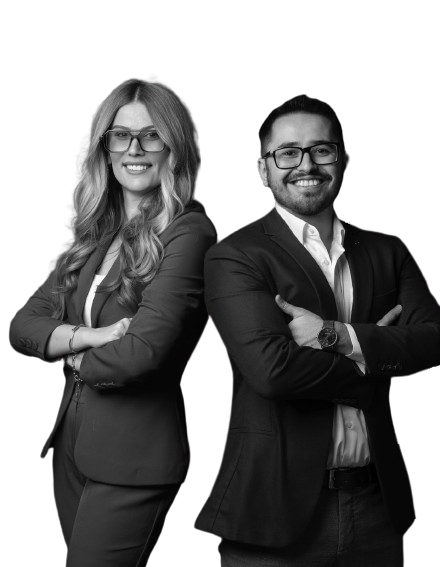
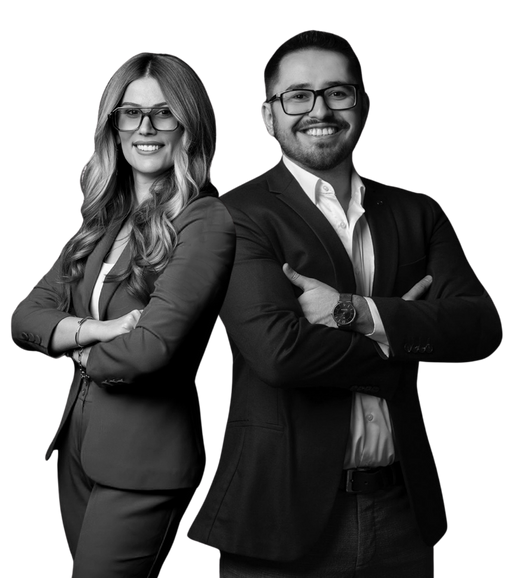
22

diff --git a/templates/home.html b/templates/home.html
@@ -610,7 +610,7 @@ textarea.input {
 
 
 						<!-- HERO TEXT -->
-						<div class="col-md-5">
+						<div class="col-md-4">
 							<div class="hero-3-txt color--white wow fadeInRight">
 
 								<!-- Title -->
@@ -663,9 +663,9 @@ textarea.input {
 
 
 						<!-- HERO IMAGE -->
-						<div class="col-md-7" style="margin-bottom:22px">	
+						<div class="col-md-8" style="margin-bottom:22px">	
 							<div class="hero-1-img wow fadeInLeft">	
-								<img style="height: 600px;padding-top:60px;" class="img-fluid qaqas sabinafoto" src="{% static 'askGroup.png' %}" alt="hero-image">					
+								<img style="height: 600px;padding-top:100px;" class="img-fluid qaqas sabinafoto" src="{% static 'groupImage.png' %}" alt="hero-image">					
 							</div>
 						</div>	
 						
@@ -742,7 +742,7 @@ textarea.input {
 
 
 						<!-- HERO TEXT -->
-						<div class="col-md-6">
+						<div class="col-md-5">
 							<div class="hero-3-txt color--white wow fadeInRight">
 
 								<!-- Title -->
@@ -796,7 +796,7 @@ textarea.input {
 
 
 						<!-- HERO IMAGE -->
-						<div class="col-md-6" style="margin-bottom:22px">	
+						<div class="col-md-7" style="margin-bottom:22px">	
 							<div class="hero-1-img wow fadeInLeft">	
 								<img style="height: 600px" class="img-fluid qaqas sabinafoto" src="{% static 'images/persons/s.png' %}" alt="hero-image">					
 							</div>
@@ -809,7 +809,7 @@ textarea.input {
 
 
 						<!-- HERO TEXT -->
-						<div class="col-md-6">
+						<div class="col-md-4">
 							<div class="hero-3-txt color--white wow fadeInRight">
 
 								<!-- Title -->
@@ -864,9 +864,9 @@ textarea.input {
 
 
 						<!-- HERO IMAGE -->
-						<div class="col-md-6" style="margin-bottom:22px">	
+						<div class="col-md-8" style="margin-bottom:22px">	
 							<div class="hero-1-img wow fadeInLeft">	
-								<img style="height: 600px" class="img-fluid qaqas sabinafoto" src="{% static 'images/persons/t.png' %}" alt="hero-image">					
+								<img style="height: 600px;padding-top:100px;" class="img-fluid qaqas sabinafoto" src="{% static 'groupImage.png' %}" alt="hero-image">					
 							</div>
 						</div>	
 						
@@ -922,7 +922,7 @@ textarea.input {
 									
 									<p >{% trans 'Transformasiya üçün həllər təklif edən bir şirkət olaraq ASK GROUP daim yenilənmək və dəyişməyin tərəfdarıdır.' %}</p>
 									<li class="list-item">
-										<p><b>{% trans 'Dəyərlərimiz' %}</b>- {%trans '- Daim öyrənmək, Daim çevik olmaq, Daim yenilənmək,Daim böyümək, Daim etibarlı tərəfdaş olmaq' %}
+										<p><b>{% trans 'Dəyərlərimiz' %}</b>- {%trans '- Daim öyrənmək, Daim çevik olmaq, Daim yenilənmək, Daim böyümək, Daim etibarlı tərəfdaş olmaq' %}
 										</p>
 										
 									</li>
@@ -1067,7 +1067,7 @@ textarea.input {
 																																					
 									<!-- Team Member Data -->		
 									<div class="team-member-data">		
-										<h6 {% if member.description %} onclick="clickTeam('{{member.full_name}}','{{member.description|escapejs}}','{{member.image.url}}')" {% endif %} class="s-20 w-700 color--black" style="cursor:pointer;">{{ member.full_name }}</h6>
+										<h6 {% if member.description %} onclick="clickTeam('{{member.full_name}}','{{member.description|escapejs}}','{{member.image.url}}')" style="cursor:pointer;" {% endif %} class="s-20 w-700 color--black" >{{ member.full_name }}</h6>
 										<p class="color--grey">{{ member.field }}</p>
 									</div>	
 								
@@ -1159,7 +1159,7 @@ textarea.input {
 							<div class="section-title mb-70">	
 
 								<!-- Title -->	
-								<h2 class="s-50 w-700">{% trans 'Əməkdaşların gözündə ASK GROUP komandası' %}</h2>	
+								<h2 class="s-50 w-700">{% trans 'Tövsiyyələr' %}</h2>	
 
 									
 							</div>	

diff --git a/templates/footer.html b/templates/footer.html
@@ -86,7 +86,9 @@
 								<!-- Links -->
 								<ul class="foo-links clearfix">
 									<li><p><a href="{% url 'home' %}">ASK GROUP</a></p></li>
-									<li><p><a href="{% url 'psychology' %}">ASK PSYCHOLOGY</a></p></li>
+									<li><p><a href="{% url 'articles' %}">Bloqlar</a></p></li>
+									<li><p><a href="{% url 'shows' %}">Paylaşımlar</a></p></li>
+									<li><p><a href="{% url 'news' %}">Xəbərlər</a></p></li>
 									<li><p><a href="{% url 'contact' %}">{% trans "Əlaqə" %}</a></p></li>						
 									
 								</ul>

diff --git a/templates/contact.html b/templates/contact.html
@@ -206,7 +206,8 @@
 				  <i class="icon fas fa-map-marker-alt"></i>
 				  <div class="card-content">
 					<h3>{% trans "Ünvan" %}</h3>
-					<span style="width:100%;text-align:center !important;">55 Zarifa Aliyeva, Bakı 1073</span>
+					<span style="width:100%;text-align:center !important;">Khatai
+						Residence., Xocalı pr., 1181-ci məhəllə, Bakı, Azərbaycan</span>
 				  </div>
 				</div>
 			  </div>
